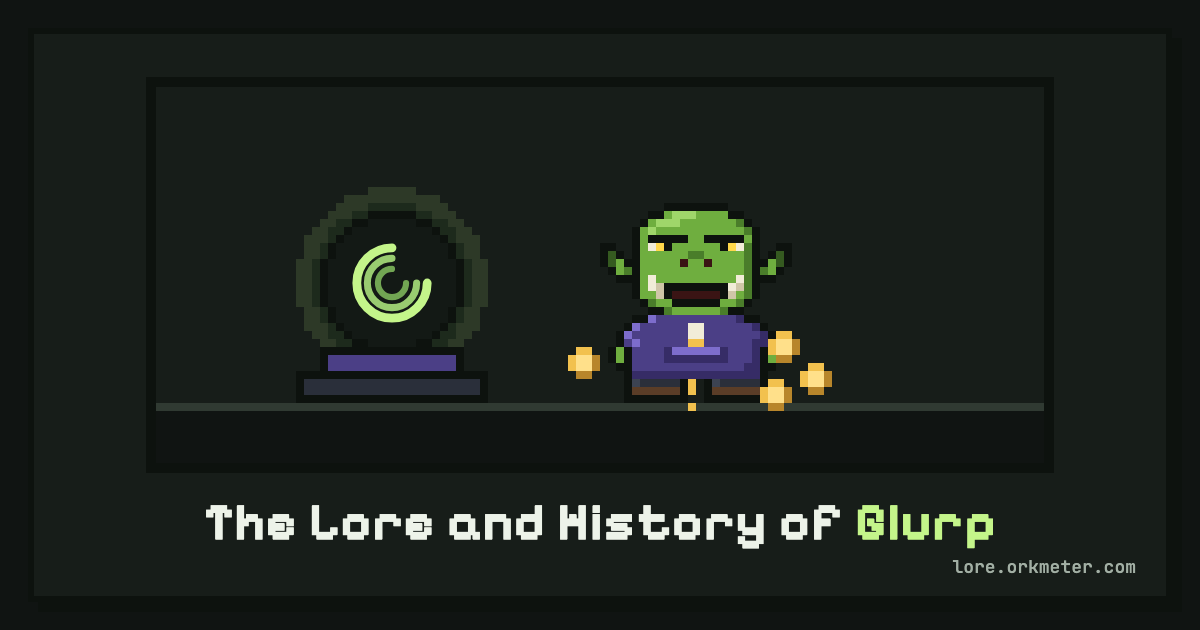
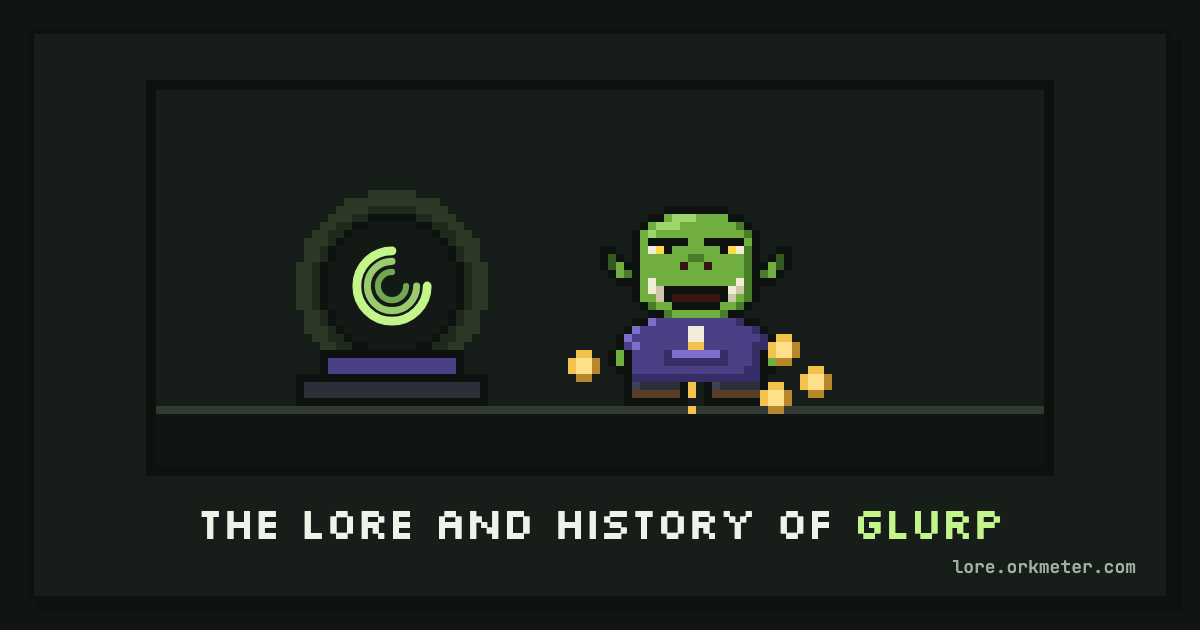
Display font: Silkscreen 400 replaces Pixelify Sans
Pixelify Sans's capital C reads as an O at every weight ("Cold" looked
like "Oold"). Matches orkmeter.com (ork-meter #682): self-hosted
Silkscreen latin woff2 from Fontsource 5.1.1 with its OFL beside it,
weight 400 only so nothing is faux-bolded. Silkscreen's capitals are
wider, so display sizes drop ~10-15% with -.03em tracking (-.04em on
page titles). The OG card is re-rendered in Silkscreen; the Pixelify
files and licence are removed. Checked at 1280 and 390 px: no
horizontal scroll, no clipped headings.

diff --git a/site/style.css b/site/style.css
@@ -1,7 +1,7 @@
 /* The Lore and History of Glurp: storybook styles. Ork Meter brand palette. */
 
-@font-face{font-family:"Pixelify Sans";font-style:normal;font-weight:500;font-display:swap;src:url(fonts/pixelify-sans-500.woff2) format("woff2")}
-@font-face{font-family:"Pixelify Sans";font-style:normal;font-weight:700;font-display:swap;src:url(fonts/pixelify-sans-700.woff2) format("woff2")}
+/* Silkscreen ships one weight; every display rule asks for 400 so nothing is faux-bolded. */
+@font-face{font-family:Silkscreen;font-style:normal;font-weight:400;font-display:swap;src:url(fonts/silkscreen-400.woff2) format("woff2")}
 @font-face{font-family:Inter;font-style:normal;font-weight:400;font-display:swap;src:url(fonts/inter-400.woff2) format("woff2")}
 @font-face{font-family:Inter;font-style:normal;font-weight:500;font-display:swap;src:url(fonts/inter-500.woff2) format("woff2")}
 @font-face{font-family:Inter;font-style:normal;font-weight:600;font-display:swap;src:url(fonts/inter-600.woff2) format("woff2")}
@@ -13,7 +13,7 @@
   --bg:#101412;--panel:#171d19;--panel-2:#1c241f;--line:#303a32;
   --text:#edf3e9;--soft:#c9d4c6;--muted:#a2afa4;
   --lime:#c4f58a;--purple:#c7b9ff;--gold:#f2c14e;--outline:#0d120e;
-  --display:"Pixelify Sans",ui-monospace,monospace;
+  --display:Silkscreen,ui-monospace,monospace;
   --body:Inter,system-ui,-apple-system,"Segoe UI",sans-serif;
   --mono:"JetBrains Mono",ui-monospace,SFMono-Regular,Menlo,monospace;
   --border:4px solid var(--outline);
@@ -74,7 +74,7 @@ main.wrap{flex:1;padding-top:36px;padding-bottom:56px}
 .brand{display:flex;align-items:center;gap:10px;color:var(--text)}
 .brand:hover{color:var(--text)}
 .brand-text{display:flex;flex-direction:column;line-height:1.1}
-.brand-name{font:700 22px/1.1 var(--display);letter-spacing:.02em}
+.brand-name{font:400 19px/1.1 var(--display);letter-spacing:-.03em}
 .brand-sub{font-size:11px;color:var(--muted);margin-top:3px}
 .site-nav{display:flex;gap:4px;margin-right:auto}
 .site-nav a{color:var(--soft);font-weight:600;font-size:15px;padding:8px 10px}
@@ -93,7 +93,7 @@ main.wrap{flex:1;padding-top:36px;padding-bottom:56px}
 .cover-art{margin:0;border-bottom:var(--border);background:#0f1511}
 .cover-art img{width:100%;image-rendering:pixelated}
 .cover-text{position:relative;padding:36px 48px 44px;text-align:center}
-.cover h1{font:700 clamp(34px,6vw,60px)/1.08 var(--display);letter-spacing:.01em;margin:4px 0 14px;text-wrap:balance}
+.cover h1{font:400 clamp(30px,5.2vw,52px)/1.1 var(--display);letter-spacing:-.04em;margin:4px 0 14px;text-wrap:balance}
 .cover h1 .glurp{color:var(--lime);text-shadow:4px 4px 0 var(--outline)}
 .subtitle{font-style:italic;color:var(--soft);font-size:19px;margin:0 auto 22px;max-width:36em}
 .cover blockquote{margin:0 auto 28px;max-width:30em;border:0;padding:0;background:none;font-size:20px}
@@ -105,7 +105,7 @@ main.wrap{flex:1;padding-top:36px;padding-bottom:56px}
 
 /* Page heads (contents, glossary, quotes) */
 .page-head{margin:0 0 28px}
-.page-head h1{font:700 clamp(32px,5vw,48px)/1.1 var(--display)}
+.page-head h1{font:400 clamp(28px,4.4vw,42px)/1.12 var(--display);letter-spacing:-.04em}
 .page-head .intro{color:var(--soft);font-size:18px;max-width:40em;margin:12px 0 0}
 .sheet{padding:32px 40px}
 
@@ -119,7 +119,7 @@ main.wrap{flex:1;padding-top:36px;padding-bottom:56px}
 .toc-title{font-weight:600;font-size:17px;line-height:1.35;padding-top:2px}
 
 /* Pixel chapter numbers */
-.pixel-num{flex:none;display:inline-grid;place-items:center;min-width:44px;height:40px;padding:0 6px;background:var(--gold);color:var(--outline);border:3px solid var(--outline);box-shadow:3px 3px 0 var(--outline);font:700 22px/1 var(--display);letter-spacing:.04em}
+.pixel-num{flex:none;display:inline-grid;place-items:center;min-width:44px;height:40px;padding:0 6px;background:var(--gold);color:var(--outline);border:3px solid var(--outline);box-shadow:3px 3px 0 var(--outline);font:400 19px/1 var(--display);letter-spacing:0}
 
 /* Chapter page */
 .book-page{padding:0 0 32px}
@@ -130,13 +130,13 @@ main.wrap{flex:1;padding-top:36px;padding-bottom:56px}
 .chapter-badge{flex:none;display:flex;flex-direction:column;align-items:center;gap:8px}
 .chapter-badge .pixel-num{min-width:76px;height:68px;font-size:40px;border-width:4px;box-shadow:5px 5px 0 var(--outline)}
 .badge-label{font-size:11px;color:var(--muted)}
-.chapter-head h1{font:700 clamp(28px,4.4vw,42px)/1.12 var(--display);text-wrap:balance}
+.chapter-head h1{font:400 clamp(25px,3.8vw,36px)/1.15 var(--display);letter-spacing:-.04em;text-wrap:balance}
 .chapter-head .kicker{margin-bottom:6px}
 
 .prose{max-width:720px;margin:0 auto;padding:0 40px;color:var(--text)}
 .sheet .prose,.aside-panel .prose{padding:0;max-width:none}
 .prose p{margin:0 0 1.1em}
-.prose h2{font:700 26px/1.2 var(--display);color:var(--lime);margin:1.8em 0 .7em;display:flex;align-items:center;gap:12px}
+.prose h2{font:400 22px/1.25 var(--display);letter-spacing:-.03em;color:var(--lime);margin:1.8em 0 .7em;display:flex;align-items:center;gap:12px}
 .prose h2::before{content:"";flex:none;width:10px;height:10px;background:var(--gold);box-shadow:3px 3px 0 var(--outline)}
 .prose strong{color:#fff;font-weight:700}
 .prose em{color:var(--soft)}
@@ -170,7 +170,7 @@ main.wrap{flex:1;padding-top:36px;padding-bottom:56px}
 .prose:has(> .fig-vignette:last-child) + .fin{margin-top:1.2em}
 
 /* Drop cap */
-.prose p.lead::first-letter{float:left;font:700 64px/1 var(--display);color:var(--outline);background:var(--lime);border:4px solid var(--outline);box-shadow:4px 4px 0 var(--outline);padding:4px 10px 6px;margin:6px 14px 0 0}
+.prose p.lead::first-letter{float:left;font:400 56px/1 var(--display);color:var(--outline);background:var(--lime);border:4px solid var(--outline);box-shadow:4px 4px 0 var(--outline);padding:4px 10px 6px;margin:6px 14px 0 0}
 .prose p.lead{font-size:1.06em}
 
 /* Ornamental rules and the end mark */
@@ -198,7 +198,7 @@ hr.ornament{width:58px;background:
 
 /* Contents asides */
 .aside-panel{padding:28px 32px;margin:0 0 28px}
-.aside-panel h2{font:700 26px/1.2 var(--display);color:var(--lime);margin-bottom:14px}
+.aside-panel h2{font:400 22px/1.25 var(--display);letter-spacing:-.03em;color:var(--lime);margin-bottom:14px}
 .table-wrap{overflow-x:auto;margin:0 0 1.2em}
 table{border-collapse:collapse;width:100%;font-size:16px}
 th,td{text-align:left;vertical-align:top;padding:12px 14px;border-bottom:2px solid var(--line)}
@@ -230,7 +230,7 @@ tbody th{white-space:nowrap}
 .site-footer{border-top:4px solid var(--outline);background:#121813;padding:36px 0 32px}
 .footer-grid{display:grid;grid-template-columns:auto 1fr;gap:20px 32px;align-items:center}
 .footer-brand{display:flex;align-items:center;gap:14px}
-.footer-pitch{margin:0;font:700 20px/1.2 var(--display);color:var(--text);max-width:14em}
+.footer-pitch{margin:0;font:400 17px/1.3 var(--display);letter-spacing:-.03em;color:var(--text);max-width:16em}
 .footer-cta{display:flex;flex-wrap:wrap;gap:14px;justify-content:flex-end}
 .footer-links{grid-column:1/-1;display:flex;flex-wrap:wrap;gap:6px 20px;padding-top:20px;border-top:2px solid var(--line)}
 .footer-links a{color:var(--soft);font-weight:500;padding:6px 0}
@@ -260,7 +260,7 @@ main > *{animation:arrive .35s ease-out both}
   .subtitle{font-size:17px}
   .cover blockquote{font-size:18px}
   .chapter-head{padding:0 20px;margin:28px auto 22px;gap:16px}
-  .chapter-badge .pixel-num{min-width:60px;height:54px;font-size:30px}
+  .chapter-badge .pixel-num{min-width:60px;height:54px;font-size:26px}
   .prose{padding:0 20px}
   .sheet{padding:24px 20px}
   .aside-panel{padding:22px 20px}
@@ -269,7 +269,7 @@ main > *{animation:arrive .35s ease-out both}
   .turn-next{order:-1}
   .footer-grid{grid-template-columns:1fr}
   .footer-cta{justify-content:flex-start}
-  .prose p.lead::first-letter{font-size:52px;padding:2px 8px 4px;margin:6px 12px 0 0}
+  .prose p.lead::first-letter{font-size:46px;padding:2px 8px 4px;margin:6px 12px 0 0}
   .fig-wide{--fig-w:calc(100cqi - 24px);margin-top:1.8em;margin-bottom:1.8em}
 }
 /* Phones: spot art stops floating and sits centred between paragraphs. */
@@ -279,7 +279,7 @@ main > *{animation:arrive .35s ease-out both}
 }
 @media (max-width:420px){
   .bar{gap:10px 12px}
-  .brand-name{font-size:20px}
+  .brand-name{font-size:17px}
   .site-nav{margin-left:0;width:100%;justify-content:space-between}
   .site-nav a{padding:8px 6px}
   .chapter-head{flex-direction:column;align-items:flex-start}

diff --git a/scripts/build_site.py b/scripts/build_site.py
@@ -622,7 +622,7 @@ def layout(page: Page) -> str:
 <meta property="og:image:alt" content="Glurp, a green pixel-art ork in a purple hoodie, beside a three-ringed crystal ball, under the title The Lore and History of Glurp.">
 <meta name="twitter:card" content="summary_large_image">
 <link rel="icon" href="favicon.svg" type="image/svg+xml">
-<link rel="preload" href="fonts/pixelify-sans-700.woff2" as="font" type="font/woff2" crossorigin>
+<link rel="preload" href="fonts/silkscreen-400.woff2" as="font" type="font/woff2" crossorigin>
 <link rel="preload" href="fonts/inter-400.woff2" as="font" type="font/woff2" crossorigin>
 <link rel="stylesheet" href="style.css">
 {head_links}<script src="site.js" defer></script>
@@ -677,12 +677,12 @@ def layout(page: Page) -> str:
 # --------------------------------------------------------------------------
 
 OG_HTML = """<!doctype html><html><head><meta charset="utf-8"><style>
-@font-face{{font-family:Pixelify;font-weight:700;src:url({fonts}/pixelify-sans-700.woff2) format("woff2")}}
+@font-face{{font-family:Silkscreen;font-weight:400;src:url({fonts}/silkscreen-400.woff2) format("woff2")}}
 @font-face{{font-family:JBM;font-weight:500;src:url({fonts}/jetbrains-mono-500.woff2) format("woff2")}}
 html,body{{margin:0;width:1200px;height:630px;overflow:hidden;background:#101412}}
 .card{{position:absolute;inset:28px;background:#171d19;border:6px solid #0d120e;box-shadow:10px 10px 0 #0d120e;display:flex;flex-direction:column;align-items:center;justify-content:center;gap:18px}}
 img{{width:896px;height:384px;image-rendering:pixelated;border:6px solid #0d120e}}
-h1{{margin:0;font:700 52px Pixelify,monospace;color:#edf3e9;letter-spacing:1px}} h1 span{{color:#c4f58a}}
+h1{{margin:0;font:400 44px Silkscreen,monospace;color:#edf3e9;letter-spacing:-.04em}} h1 span{{color:#c4f58a}}
 p{{position:absolute;right:30px;bottom:18px;margin:0;font:500 18px JBM,monospace;color:#a2afa4}}
 </style></head><body><div class="card"><img src="{art}" alt=""><h1>The Lore and History of <span>Glurp</span></h1><p>lore.orkmeter.com</p></div></body></html>"""
 
